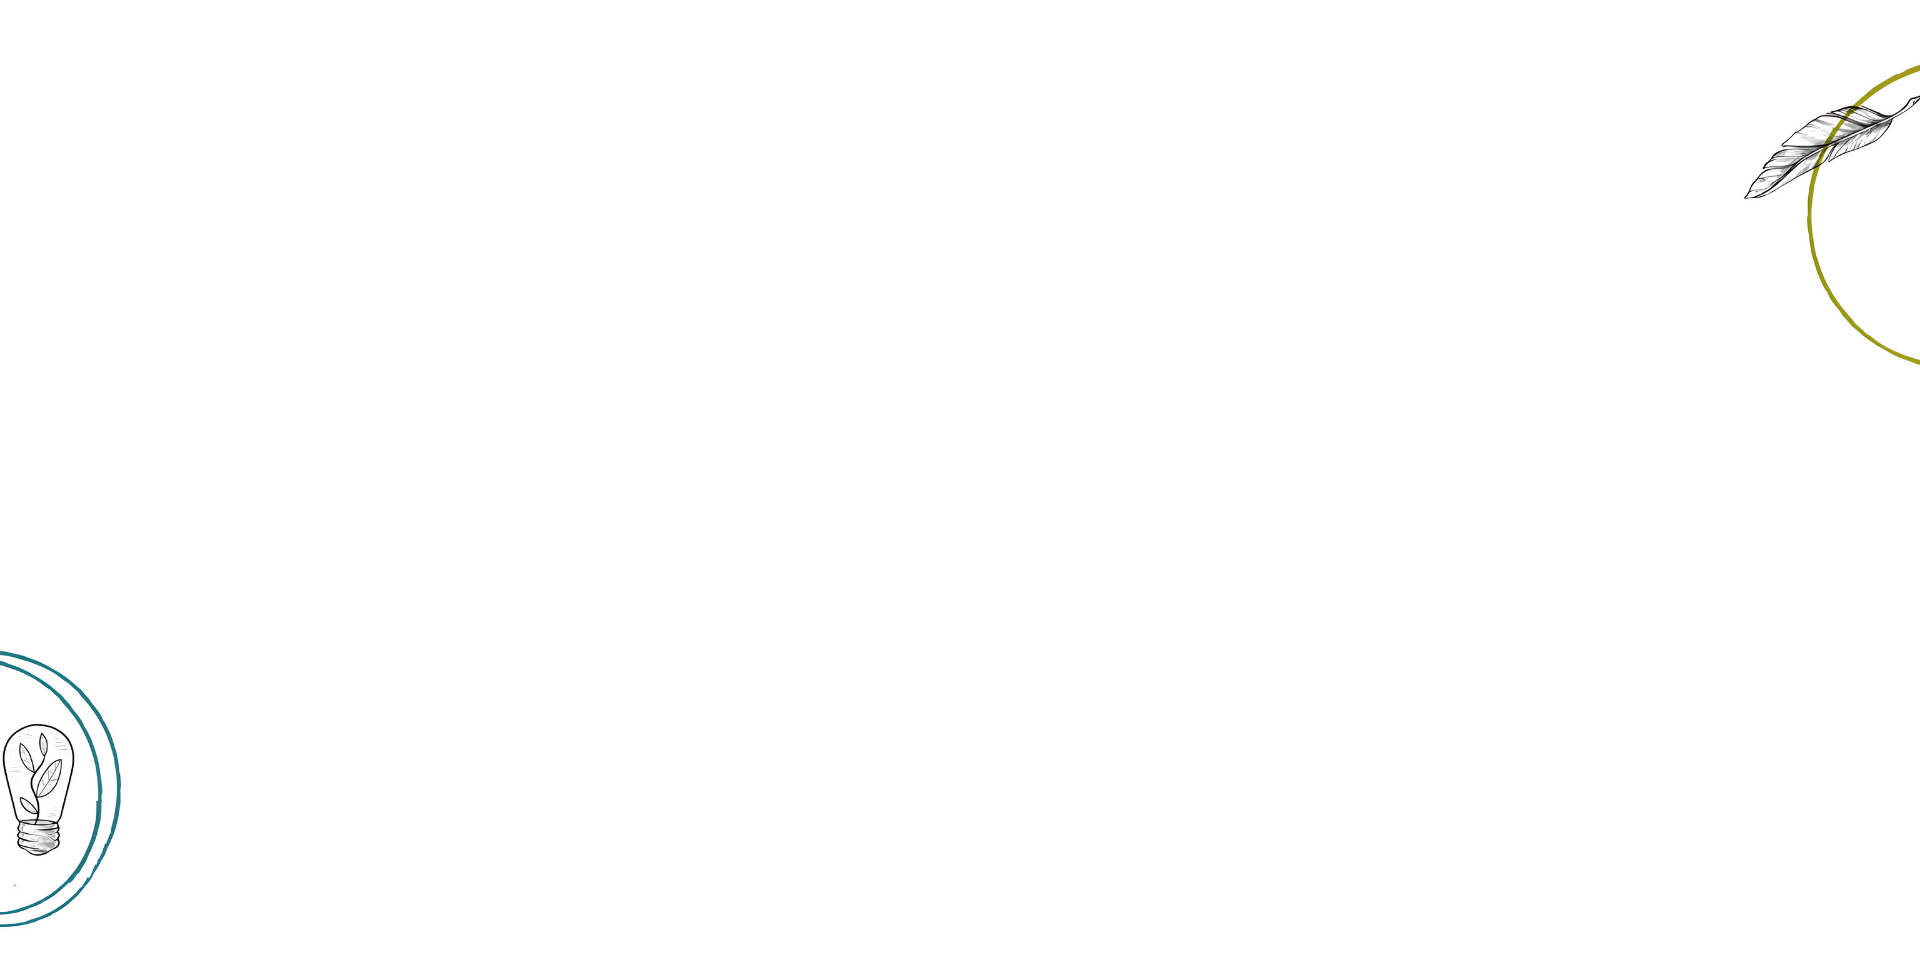
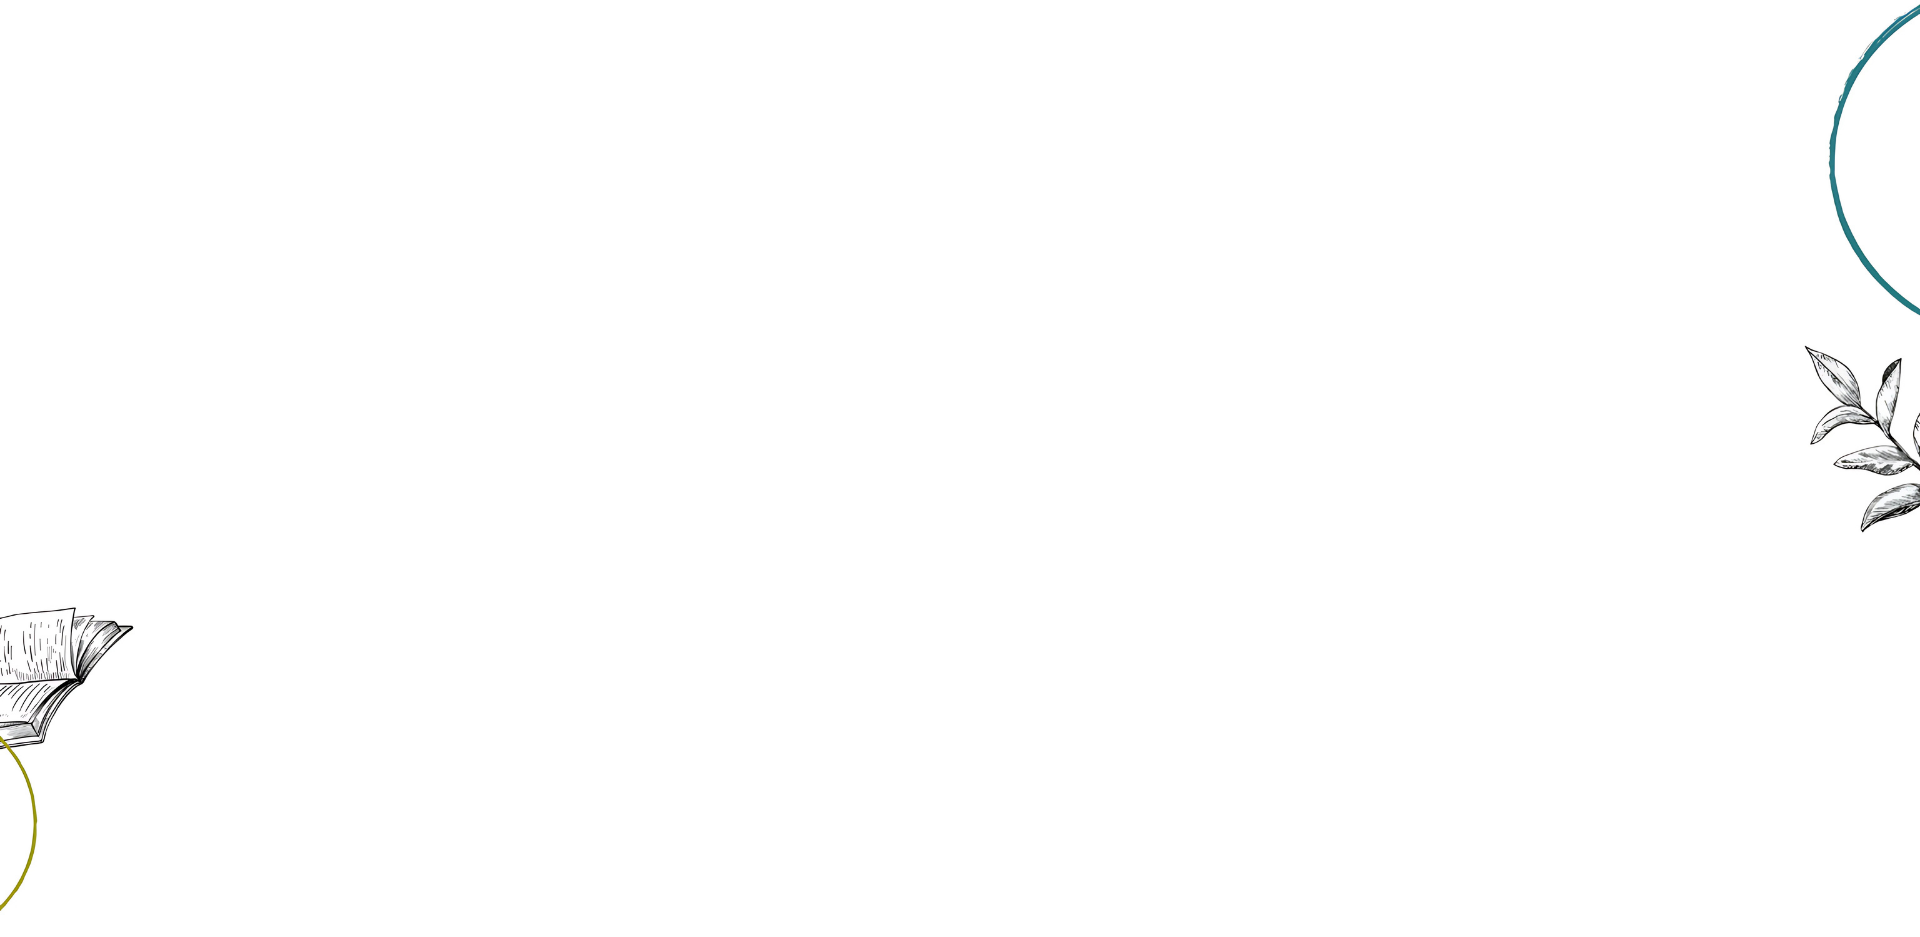
backgrounds updated

diff --git a/src/components/WorkshopsPage/Workshops.scss b/src/components/WorkshopsPage/Workshops.scss
@@ -7,34 +7,29 @@
   justify-content: center;
   align-items: center;
   position: relative;
-
-
 }
-
 
 .workshops-content-container {
   display: flex;
   flex-direction: column;
   font-family: $primary-font;
+  gap: 70px;
+  padding: 90px 0;
 
   .workshop-main-backgrounds-container {
     position: relative;
-  
   }
-
 
   .workshop-wrapper {
     display: flex;
-    gap: 50px 120px;
+    gap: 50px 100px;
     align-items: center;
-    margin: 80px 0px 120px 0px;
     justify-content: center;
     padding:  0 30px;
     z-index: 10;
     position: relative;
   }
 
-  
   .workshops-main-title {
     font-family: $primary-font;
     font-family: Work Sans;
@@ -59,8 +54,9 @@
     padding:  0px 30px;
     position: relative;
     z-index: 10;
+    background-color: rgb(245, 245, 245);
     margin-top: 0;
-    margin-bottom: 50px;
+    padding: 50px 0;
   }
 
   .workshops-top-background {
@@ -129,7 +125,7 @@
     letter-spacing: -0.5px;
     color: $primary-color;
     font-size: 17px;
-    color: rgb(129, 126, 126);
+    color: rgb(98, 98, 98);
     margin-bottom: 4px;
   }
 
@@ -151,6 +147,7 @@
     cursor: pointer;
     display: block;
   }
+
 
   .workshops-contact-buttton {
     padding: 10px 70px;
@@ -239,9 +236,6 @@
     }
   }
 
-  .white-accordion {
-    border-top: 2px solid rgba(255,255,255,0.8);
-  }
 }
 
 

diff --git a/src/components/Services/Services.scss b/src/components/Services/Services.scss
@@ -4,7 +4,7 @@
     background: rgb(34, 149, 161);
     // background: linear-gradient(to bottom, rgba(34, 149, 161, 1) 10%, rgba(12, 72, 76, 1) 100%);
     background: radial-gradient(circle, rgba(34, 149, 161, 1) 20%, rgba(12, 72, 76, 1) 100%);
-
+    // background-color: $gray-color;
     padding: 50px 40px 110px 40px;
     z-index: 10;
     display: flex;
@@ -25,19 +25,22 @@
 
     .services-main-title {
         font-family: Work Sans;
-        font-size: 19px;
+        font-size: 21px;
         color: white;
+        // color: rgba(98,98,98);
         opacity: 0.96;
         letter-spacing: -0.7px;
         font-weight: 500;
         text-align: center;
-        margin-bottom: 13px;
+        margin-bottom: 10px;
     }
 
     .services-main-text {
         font-family: $primary-font;
         font-size: 40px;
         color: white;
+        // color: $primary-color;
+
         margin-top: 5px;
         font-weight: 600;
         text-align: center;
@@ -48,7 +51,7 @@
         display: flex;
         align-items: stretch;
         justify-content: center;
-        gap: 55px;
+        gap: 60px;
         flex-wrap: wrap; 
         position: relative;
         z-index: 10;

diff --git a/src/components/WorkshopsPage/Workshops.jsx b/src/components/WorkshopsPage/Workshops.jsx
@@ -26,11 +26,7 @@ const Workshops = () => {
           <div className="workshops-content-container">
             {
               workshops.map((workshop) => (
-                // 
                 <div className="workshop-main-backgrounds-container" key={workshop.id}>
-                  <div  className={workshop.backgroundClass}>
-                    <img src={workshop.background} className={"workshops-background-img"} alt="" />
-                  </div>
                   <div className={workshop.id % 2 === 1 ? "workshop-wrapper" : "workshop-wrapper reverse-wrapper"} >
                     <div>
                       <h2 className={workshop.id === 1 ? "workshops-main-title" : "non-title"}> Yabancı Dil Atölyeleri </h2>

diff --git a/src/components/Programs/Programs.scss b/src/components/Programs/Programs.scss
@@ -2,7 +2,7 @@
 
 .programs-container {
   background: rgb(34, 149, 161);
-  background: linear-gradient(to bottom, rgba(34, 149, 161, 1) 4%, rgba(12, 72, 76, 1) 100%); 
+  background: linear-gradient(to bottom, rgba(34, 149, 161, 1) 1%, rgba(12, 72, 76, 1) 100%); 
  
   padding-bottom: 65px;
   padding-top: 10px;
@@ -42,13 +42,14 @@
     opacity: 1;
     letter-spacing: -0.7px;
     font-weight: 500;
+    margin-left: 2px;
   }
 
   .programs-main-text {
     font-family: $primary-font;
     font-size: 40px;
     color: white;
-    margin-top: 5px;
+    margin-top: 2px;
     max-width: 615px;
     font-weight: 600;
   }

diff --git a/src/components/Services/Services.jsx b/src/components/Services/Services.jsx
@@ -7,9 +7,9 @@ import { Link } from "react-router-dom";
 const Services = () => {
   return (
     <div className="services-main-container">
-      <div className="services-background-container">
+      {/* <div className="services-background-container">
         <img src={background} className="services-background-img" alt="" />
-      </div>
+      </div> */}
       <div className="services-title-container">
         <p className="services-main-title"> Hizmetlerimiz </p>
         <p className="services-main-text"> Dil Öğreniminde <br /> Profesyonel Çözümler! </p>

diff --git a/src/components/AcademicPageCourses/AcademicPageCourses.scss b/src/components/AcademicPageCourses/AcademicPageCourses.scss
@@ -66,7 +66,7 @@
 
 
     .academic-course-img {
-        width: 320px;
+        width: 330px;
         object-fit: cover;
         height: 430px;
         border-radius: 15px;
@@ -87,7 +87,8 @@
 
     .black-button {
         backdrop-filter: blur(2px);
-        background-color: rgb(0 165 173);
+        background-color: rgba(243, 243, 243, 0.20);
+        backdrop-filter: blur(10px);
         box-shadow: rgba(0, 0, 0, 0.19) 0px 10px 20px, rgba(0, 0, 0, 0.23) 0px 6px 6px;
     }
 }

diff --git a/src/components/Programs/Programs.jsx b/src/components/Programs/Programs.jsx
@@ -9,9 +9,9 @@ const Programs = () => {
 
   return (
     <div className="programs-container">
-      <div className="programs-background-container">
+      {/* <div className="programs-background-container">
         <img src={background} className="programs-background-img" alt="" />
-      </div>
+      </div> */}
       <div className="programs-content-container">
         <div className="programs-main-title-container">
           <div className="title-text-container">

diff --git a/src/pages/home.jsx b/src/pages/home.jsx
@@ -13,9 +13,9 @@ const Home = () => {
     <>
       <Header />
       <Slide />
-      <Programs/>
-      <MottoSection />
       <Services/>
+      <MottoSection />
+      <Programs/>
       <ContactUs />
     </>
   );
